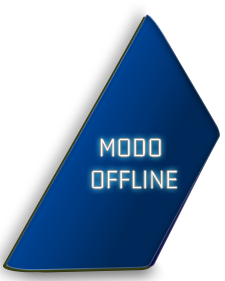
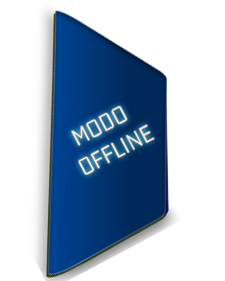
botones hitbox

diff --git a/container/scripts/scenes/menujugar.js b/container/scripts/scenes/menujugar.js
@@ -175,18 +175,22 @@ export class Play_Menu_Scene extends Phaser.Scene {
         this.background.setScale(1.4);
         this.background.setOrigin(0);
 
-        this.boton1 = this.add.image(580, 370, 'botonrojo1').setInteractive();
-        this.boton1.setScale(1.45);
-        this.boton1_luz = this.add.image(580, 370, 'botonrojo2').setInteractive();
-        this.boton1_luz.setScale(1.45);
+        this.boton1 = this.add.image(570, 335, 'botonrojo1').setInteractive();
+        this.boton1.setScale(1.5);
+        this.boton1.setAngle(30);
+        this.boton1_luz = this.add.image(570, 335, 'botonrojo2').setInteractive();
+        this.boton1_luz.setScale(1.55);
         this.boton1_luz.alpha = 1;
+        this.boton1_luz.setAngle(30);
         //this.text1 = this.add.text(560, 300, 'Jugar Offline', { color: '#000000', fontSize: '28px', fontFamily: 'Gemunu Libre'});
 
-        this.boton2 = this.add.image(705, 375, 'botonazul1').setInteractive();
-        this.boton2.setScale(1.45);
-        this.boton2_luz = this.add.image(705, 375, 'botonazul2').setInteractive();
-        this.boton2_luz.setScale(1.45);
+        this.boton2 = this.add.image(750, 430, 'botonazul1').setInteractive();
+        this.boton2.setScale(1.54);
+        this.boton2.setAngle(30);
+        this.boton2_luz = this.add.image(735, 430, 'botonazul2').setInteractive();
+        this.boton2_luz.setScale(1.6);
         this.boton2_luz.alpha = 0;
+        this.boton2_luz.setAngle(30);
         //this.text2 = this.add.text(460, 270, 'Jugar Online', { color: '#000000', fontSize: '28px', fontFamily: 'Gemunu Libre'});
 
         this.salir = this.add.image(100, 50, 'botonsalir').setInteractive();
